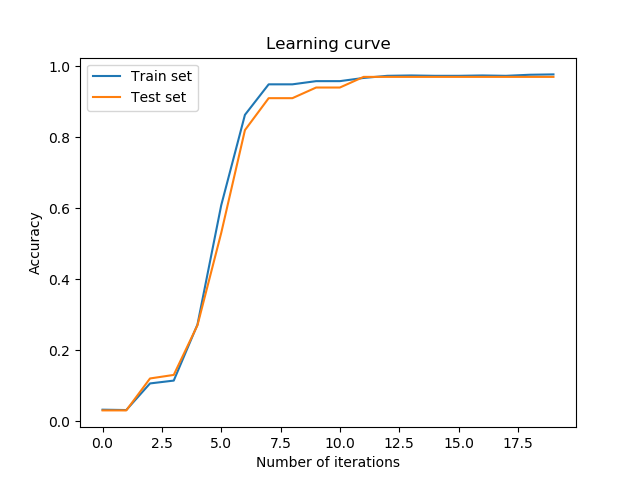
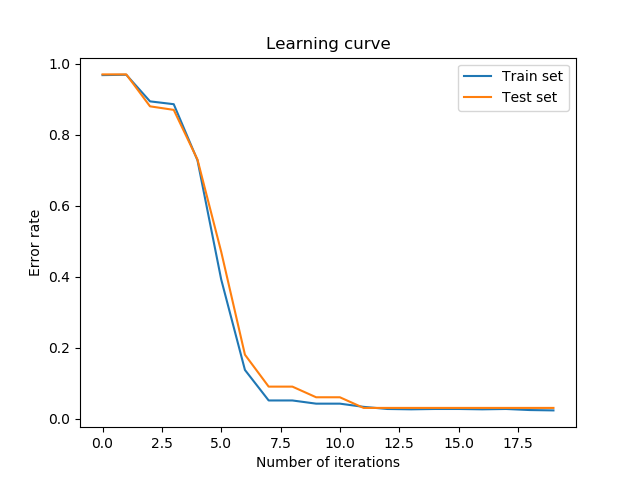
real error rate

diff --git a/script/test_sdca_close.py b/script/test_sdca_close.py
@@ -23,6 +23,7 @@ def main():
     plt.yticks([])
     plt.xlim(*xlims)
     plt.ylim(*ylims)
+    plt.savefig('figs/figure1.png')
     plt.show()
     
     # Compute SDCA
@@ -39,6 +40,7 @@ def main():
     plt.yticks([])
     plt.xlim(*xlims)
     plt.ylim(*ylims)
+    plt.savefig('figs/figure2.png')
     plt.show()
 
     # Plot some stats
@@ -47,19 +49,21 @@ def main():
     plt.title("Evolution of alpha")
     for i in range(n):
         plt.plot(hist_alpha[:, i])
+    plt.savefig('figs/figure3.png')
     plt.show()
     
     X_test, Y_test = gen_arti(nbex=100, **data_args)
-    hist_error_rate_train = [score(X, Y, hist_w[t]) for t in range(n_iter)]
-    hist_error_rate_test = [score(X_test, Y_test, hist_w[t]) for t in range(n_iter)]
+    hist_error_rate_train = [1-score(X, Y, hist_w[t]) for t in range(n_iter)]
+    hist_error_rate_test = [1-score(X_test, Y_test, hist_w[t]) for t in range(n_iter)]
 
     plt.figure()
     plt.title("Learning curve")
     plt.xlabel('Number of iterations')
-    plt.ylabel('Accuracy')
+    plt.ylabel('Error rate')
     plt.plot(hist_error_rate_train, label='Train set')
     plt.plot(hist_error_rate_test, label='Test set')
     plt.legend()
+    plt.savefig('figs/figure4.png')
     plt.show()
     
 
